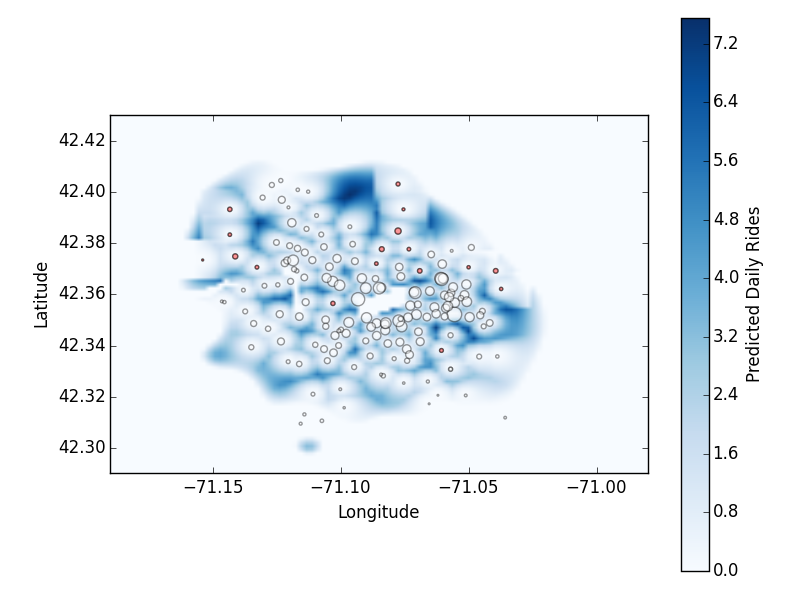
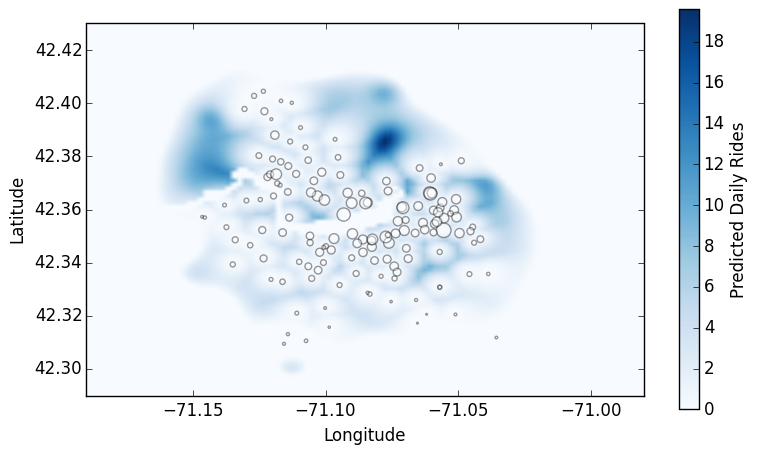
Updated map of predicted rides
For zeroth-iteration: existing subway stations.

Changed region(s): [[0.0, 0.0, 1.0, 0.9868]]

diff --git a/app/gridpredict.py b/app/gridpredict.py
@@ -13,7 +13,7 @@ from sklearn import linear_model
 import loadutil
 from subprocess import call
 import matplotlib.pyplot as plt
-from pylab import savefig
+#from pylab import savefig
 
 
 def getorigin(ilat, ilong, popemp, mbta, zipscale, subwayscale):
@@ -318,6 +318,7 @@ def plotmap(dataloc):
     ridemap = nrides['nrides'].values.reshape((nlat, nlat))
 
     plt.clf()
+    plt.figure(figsize=(9,5))
     plt.imshow(ridemap, vmin=0, cmap="Blues",
             extent=[longmin,longmax,latmin,latmax], origin='lower')
     cbar = plt.colorbar()
@@ -340,9 +341,9 @@ def plotmap(dataloc):
     plt.xlabel('Longitude')
     plt.ylabel('Latitude')
     #plt.legend()
-    plt.tight_layout()
+    #plt.tight_layout()
     #plt.show()
-    savefig(dataloc + '/predictedridemap.png')
+    plt.savefig(dataloc + '/predictedridemap.png', bbox_inches='tight')
     
 
 def giveninput(ilat, ilong, popemp, mbta, station, zipscale, 

diff --git a/app/views.py b/app/views.py
@@ -60,9 +60,7 @@ def station_input():
     map_hubway.create_map(path="static/hubway.html")
 
     #import fileinput
-
     #processing_foo1s = False
-
     #for line in fileinput.input('static/hubway.html', inplace=1):
     #    if line.startswith('<head>'):
     #        processing_foo1s = True
